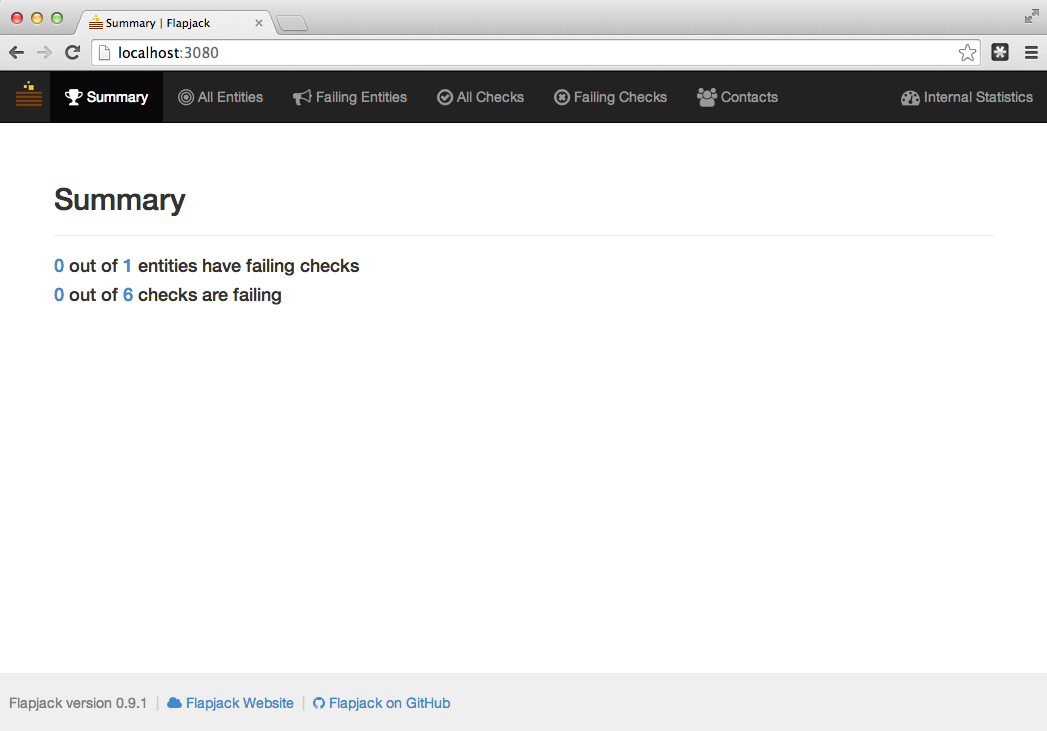
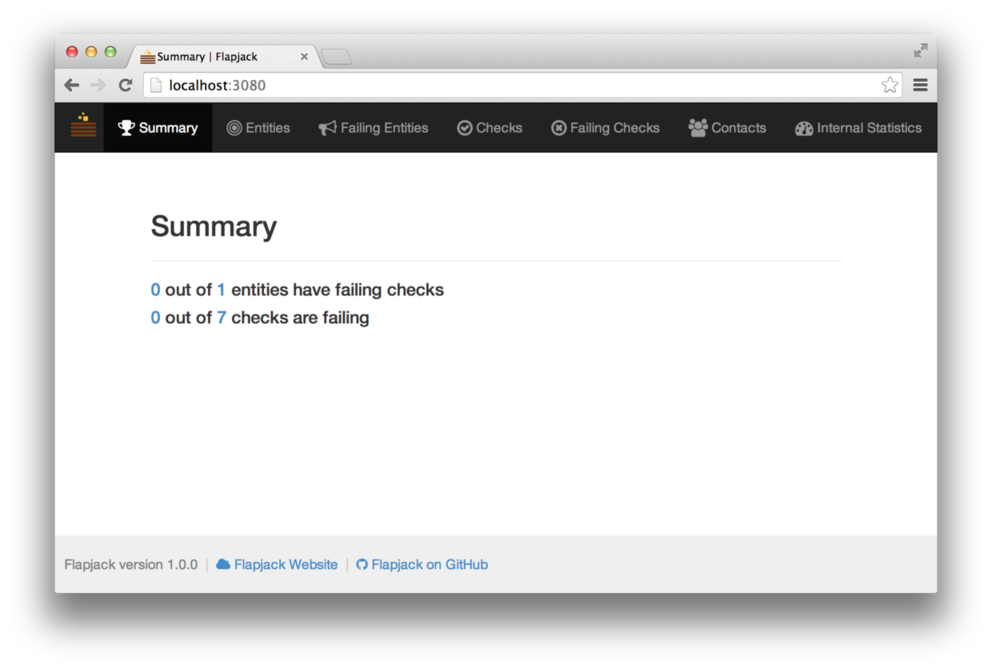
New quickstart

diff --git a/source/docs/1.0/usage/quickstart.md b/source/docs/1.0/usage/quickstart.md
@@ -17,13 +17,13 @@ To skip this tutorial and jump straight to the code, view the project on [GitHub
 - [Vagrant](http://vagrantup.com/) 1.2+
 - [VirtualBox](https://www.virtualbox.org/wiki/Downloads) 4.2+
   (or an alternative provider such as [VMware Fusion](http://www.vmware.com/au/products/fusion/)
-  and the [Vagrant plugin](http://www.vagrantup.com/vmware))
+  and the [Vagrant plugin](http://www.vagrantup.com/vmware)
 
 ### Setup
 
 Get the repo, and build your Vagrant box:
 
-```
+```bash
 git clone https://github.com/flapjack/vagrant-flapjack.git
 cd vagrant-flapjack
 vagrant up
@@ -31,7 +31,7 @@ vagrant up
 
 For an alternative provider to VirtualBox (e.g. VMware Fusion), you can specify the provider when running `vagrant up`:
 
-```
+```bash
 vagrant up --provider=vmware_fusion
 ```
 
@@ -40,101 +40,127 @@ vagrant up --provider=vmware_fusion
 Check out the <a class="alert-link" href="https://github.com/flapjack/vagrant-flapjack">vagrant-flapjack</a> project on GitHub.
 </div>
 
-### Verify
+## Using Flapjack
 
-Visit [http://localhost:3080](http://localhost:3080) from your host workstation.
+Flapjack will now be visible at [http://localhost:3080](http://localhost:3080) from your host workstation.
 You should see the Flapjack Web UI:
 
 ![Screenshot of the Flapjack Web UI](/images/1.0/quickstart/web-ui.png)
 
-You should also find Icinga and Nagios UIs running at:
-
-
-<table class="table table-striped table-hover">
-  <tr>
-    <th>URL</th>
-    <th>Username</th>
-    <th>Password</th>
-  </tr>
-  <tr>
-    <td>
-      <a href="http://localhost:3083/nagios3">
-      http://localhost:3083/nagios3
-      </a>
-    </td>
-    <td>nagiosadmin</td>
-    <td>nagios</td>
-  </tr>
-  <tr>
-    <td>
-      <a href="http://localhost:3083/icinga">
-      http://localhost:3083/icinga
-      </a>
-    </td>
-    <td>icingaadmin</td>
-    <td>icinga</td>
-  </tr>
-</table>
-
-## Get comfortable with the Flapjack CLI
-
-SSH into the VM:
+To continue with this guide, SSH into the vagrant box:
 
 ``` bash
 vagrant ssh
 ```
 
-Have a look at the commands under `/opt/flapjack/bin`:
+You'll find the commands under `/opt/flapjack/bin`:
 
-```text
+```bash
 export PATH=$PATH:/opt/flapjack/bin
-# ...
 flapjack help
-# ...
 flapjack simulate help
-# ...
 ```
 
 <div class="alert alert-info">
 Details of these commands are available <a class="alert-link" href="USING#running">here</a>.
 </div>
 
-![CLI](/images/1.0/quickstart/term-flapjack-help.png)
+### The checks
 
-## Simulate a check failure
+Flapjack can receive notifications from a number of different systems.  When it does, the machine, otherwise known as the entity, and the check, are automatically created in flapjack.
 
-Run something like:
+For now, we'll create our own  using Flapjack's simulate command:
 
-``` bash
+```bash
+flapjack simulate fail \
+  --entity restaurant1 \
+  --check bacon \
+  --interval 1 \
+  --time 0.1
+flapjack simulate ok \
+  --entity restaurant1 \
+  --check eggs \
+  --interval 1 \
+  --time 0.1
 flapjack simulate fail_and_recover \
-  --entity foo-app-01.example.com \
-  --check Sausage \
-  --time 3
+  --entity restaurant2 \
+  --check pancakes \
+  --interval 1 \
+  --time 0.1
 ```
 
-This will send a stream of critical events for 3 minutes, and send one ok event at the end. If you want the last event to be a failure as well, use the `flapjack simulate fail` command instead of `flapjack simulate fail_and_recover`.
+The definition of these commands are as follows:
 
-### Verify
+```text
+flapjack simulate fail             - Generate a stream of failure events
+flapjack simulate fail_and_recover - Generate a stream of failure events, and one final recovery
+flapjack simulate ok               - Generate a stream of ok events
+```
 
-Reload the Flapjack Web UI and you should now be able to see the status of the check you're simulating, e.g. at:
+You can now see these under the [list of entities](http://localhost:3080/entities) and [list of checks](http://localhost:3080/checks).
 
-<pre>
-<a href="http://localhost:3080/check?entity=foo-app-01.example.com&check=Sausage">http://localhost:3080/check?entity=foo-app-01.example.com&check=Sausage</a>
-</pre>
+![Screenshot of the list of checks](/images/1.0/quickstart/check-list.png)
 
-## Integrate Flapjack with Nagios (and Icinga)
+#### Maintenance (including acknowledgements)
 
-Both Nagios and Icinga are configured already to append check output data to the following named pipe: `/var/cache/icinga/event_stream.fifo`.
+There are two types of maintenance - scheduled and unscheduled maintenance.  An acknowledgment counts as an unscheduled maintenance.
+
+All checks are created with a default period of scheduled maintenance, usually 100 years.  
+
+Click the 'End Now' button on the [Bacon check](http://localhost:3080/check?entity=restaurant1&check=bacon) to end this maintenance.
+
+#### Unscheduled downtime (acknowledgements)
+
+Our Bacon check is now critical, and sending out alerts.  To acknowledge this check, and silence the alerts, we add unscheduled maintenance for a period of time by filling out the [Acknowledge Alert](http://localhost:3080/check?entity=restaurant1&check=bacon) box.
+
+![Screenshot of adding unscheduled maintenance](/images/1.0/quickstart/add-unscheduled-maintenance.png)
+
+If you want to add more scheduled maintenance, fill out the 'Add Scheduled Maintenance' box further down the page.
+
+You can also add, list and remove maintenance by using the CLI tool `flapjack maintenance`:
+
+```bash
+flapjack maintenance show   - Show maintenance windows according to criteria (default: all ongoing maintenance)
+flapjack maintenance delete - Delete maintenance windows according to criteria (default: all ongoing maintenance)
+flapjack maintenance create - Create a maintenance window
+```
+
+### The people
+
+Contacts can be created using the 'edit contacts' button on the [contacts page](http://localhost:3080/contacts).
+
+![Screenshot of new user creation](/images/1.0/quickstart/add-new-user.png)
+
+To add media to contacts (such as an email address and a pager number), go to the [edit contacts page](http://localhost:3080/edit_contacts), mouseover the name, and click the 'media' button.
+
+![Screenshot of adding media to user](/images/1.0/quickstart/add-media-to-user.png)
+
+Contacts can also be added through the [API](http://flapjack.io/docs/1.0/jsonapi/#contacts)
+
+From here, we add entities the given contact should be alerted about.  To do this, go back to the [edit contacts page](http://localhost:3080/edit_contacts), mouseover the name, and click the 'entity' button.  Select the entities to add, and click 'Add Entities'.
+
+![Screenshot of adding entities to user](/images/1.0/quickstart/add-entities-to-user.png)
+
+The bottom of the [check page](http://localhost:3080/check?entity=restaurant1&check=bacon) lists which contacts will be notified of events.
+
+### The outputs
+
+How do I connect my gateways out?
+Can we have email generation?
+What's the relationship between contacts and gateways?
+How do you configure notifications to go to a jabber room, rather than a particular person?
+
+Instructions on export to influxdb
+
+### Getting real data into Flapjack
+
+Both Nagios and Icinga are configured already to append check output data to the following named pipe: `/var/cache/nagios3/event_stream.fifo`.
 
 `flapjack receiver nagios` takes check output data from Nagios and turns it into events that Flapjack understands:
 
 ![Flapjack's architecture](/images/1.0/quickstart/architecture.png)
 
-All that remains is to configure `flapjack receiver nagios` to read from this named pipe, configure its Redis connection, and start it up.
-
-- Edit the Flapjack config file at `/etc/flapjack/flapjack_config.yaml`
-- Find the `nagios-receiver` section under `production` and change the `fifo: ` to be `/var/cache/icinga/event_stream.fifo`
-- Start it up with:
+All that remains is to start the receiver up:
 
 ``` bash
 sudo /etc/init.d/flapjack receiver nagios start
@@ -142,147 +168,7 @@ sudo /etc/init.d/flapjack receiver nagios start
 
 More details on configuration are available [here](../USING#configuring-components).
 
-### Verify
-
-Reload the Flapjack web interface and you should now see the checks from Icinga and/or Nagios appearing there.
-
-![Checks](/images/1.0/quickstart/checks-from-nagios.png)
-
-## Create some contacts and Entities
-
-Currently Flapjack does not include a friendly web interface for managing contacts and entities, so for now we use json, curl, and the [Flapjack API](../../jsonapi).
-
-The vagrant-flapjack project ships with [example json files](https://github.com/flapjack/vagrant-flapjack/tree/master/examples) that you can use in this tutorial, or you can copy and paste the longform curl commands below that include the json.
-
-### Create Contacts Ada and Charles
-
-We'll be using the [POST /contacts](../../jsonapi/#create-contacts) API call to create two contacts.
-
-Run the following from your workstation, cd'd into the vagrant-flapjack directory:
-
-```
-curl -w 'response: %{http_code} \n' -X POST -H "Content-type: application/json" \
-  -d @examples/contacts_ada_and_charles.json \
-  http://localhost:3081/contacts
-```
-
-Or alternatively, copy and paste the following. This does the same thing, but includes the json data inline.
-
-```
-curl -w 'response: %{http_code} \n' -X POST -H "Content-type: application/json" -d \
- '{
-    "contacts": [
-      {
-        "id": "21",
-        "first_name": "Ada",
-        "last_name": "Lovelace",
-        "email": "ada@example.com",
-        "media": {
-          "sms": {
-            "address": "+61412345678",
-            "interval": "3600",
-            "rollup_threshold": "5"
-          },
-          "email": {
-            "address": "ada@example.com",
-            "interval": "7200",
-            "rollup_threshold": null
-          }
-        },
-        "tags": [
-          "legend",
-          "first computer programmer"
-        ]
-      },
-      {
-        "id": "22",
-        "first_name": "Charles",
-        "last_name": "Babbage",
-        "email": "charles@example.com",
-        "media": {
-          "sms": {
-            "address": "+61412345679",
-            "interval": "3600",
-            "rollup_threshold": "5"
-          },
-          "email": {
-            "address": "charles@example.com",
-            "interval": "7200",
-            "rollup_threshold": null
-          }
-        },
-        "tags": [
-          "legend",
-          "polymath"
-        ]
-      }
-    ]
-  }' \
- http://localhost:3081/contacts
-```
-
-Navigate to [Contacts](http://localhost:3080/contacts) in the Flapjack web UI and you should see Ada Lovelace and Charles Babbage listed:
-
-![Contacts - List](/images/1.0/quickstart/contacts-ada-and-charles.png)
-
-Selecting [Ada](http://localhost:3080/contacts/21) should give you something like:
-
-![Contact - Ada Lovelace](/images/1.0/quickstart/contact-ada.png)
-
-### Create entities foo-app-01 and foo-db-01 (.example.com)
-
-We'll be using the [POST /entities](../../jsonapi/#create-entities) API call to create two entities.
-
-We're going to assign both Ada and Charles to foo-app-01, and just Ada to foo-db-01.
-
-```
-curl -w 'response: %{http_code} \n' -X POST -H "Content-type: application/json" \
-  -d @examples/entities_my-app-01_and_my-db-01.json \
-  http://localhost:3081/entities
-```
-
-Or with json inline if you prefer:
-
-```
-curl -w 'response: %{http_code} \n' -X POST -H "Content-type: application/json" -d \
- '{
-    "entities": [
-      {
-        "id": "801",
-        "name": "my-app-01.example.com",
-        "contacts": [
-          "21",
-          "22"
-        ],
-        "tags": [
-          "my",
-          "app"
-        ]
-      },
-      {
-        "id": "802",
-        "name": "my-db-01.example.com",
-        "contacts": [
-          "21"
-        ],
-        "tags": [
-          "my",
-          "db"
-        ]
-      }
-
-    ]
-  }' \
- http://localhost:3081/entities
-```
-
-#### Verify
-
-Visit [my-app-01](http://localhost:3080/entity/my-app-01.example.com) in the web UI and you should see something like:
-
-![Entity - my-app-01.example.com](/images/1.0/quickstart/entity-my-app-01-no-checks.png)
-
-## Feedback?
+### Feedback?
 
 Found an error in the above? Please [submit a bug report](https://github.com/flapjack/flapjack/issues/new) and/or a pull request against the [gh-pages branch](https://github.com/flapjack/flapjack/tree/gh-pages) with the fix.
 
@@ -290,7 +176,7 @@ Something not clear? That's a bug too!
 
 Got questions? Suggestions? Talk to us via irc, mailing list, or twitter. See [Support](/support) for details.
 
-## Coming soon
+### Coming soon
 
 Stay tuned for more info on how to configure:
 
@@ -300,5 +186,6 @@ Stay tuned for more info on how to configure:
 
 In the mean time, check out:
 
- - [Documentation](../IMPORTING) on **how to import contacts and entities**
- - **[JSONAPI documentation](../../jsonapi)** for working with individual contacts and entities
+ - [Documentation](../IMPORTING) on how to import contacts and entities
+ - [JSONAPI documentation](../../jsonapi) for working with individual contacts and entities
+ - [Flapjack-diner](https://github.com/flapjack/flapjack-diner), the ruby interface to Flapjack
